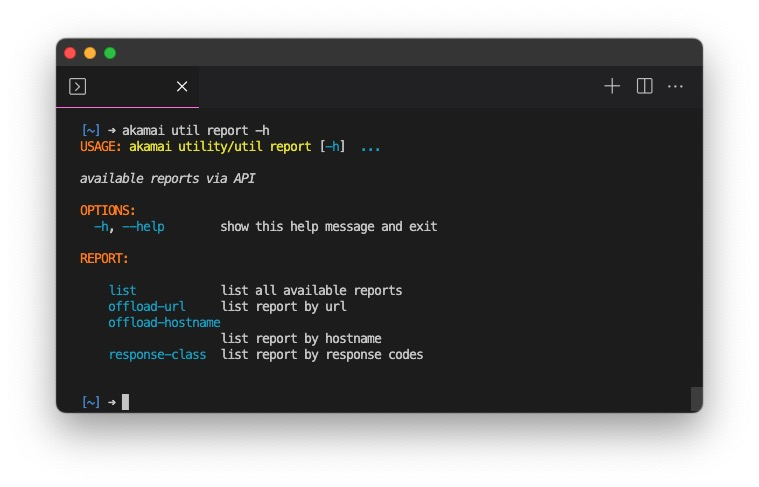
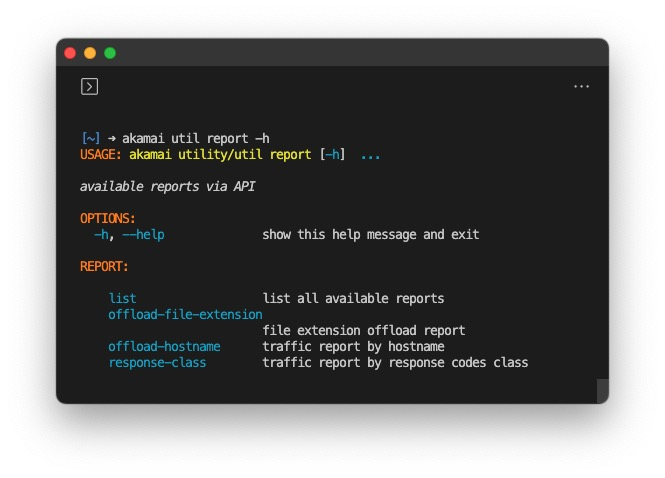
bugfix, refactor: report

diff --git a/bin/command/report.py b/bin/command/report.py
@@ -22,8 +22,8 @@ from tabulate import tabulate
 from utils import files
 
 
-def all_reports(args, logger):
-    rpt = Reporting(account_switch_key=args.account_switch_key, logger=logger)
+def all_reports(args, account_folder, logger):
+    rpt = Reporting(account_switch_key=args.account_switch_key, section=args.section, edgerc=args.edgerc, logger=logger)
     data = rpt.list_report()
     df = pd.json_normalize(data)
 
@@ -40,30 +40,47 @@ def all_reports(args, logger):
             df = df.query(f"businessObjectName == '{args.type}'").copy()
             if args.namecontains:
                 df = df[df['name'].str.contains(args.namecontains)].copy()
-            df = df.fillna('')
-            df = df.sort_values(by='name')
-            df = df.reset_index(drop=True)
-            limit = df.limit.unique()
-            maxLimit = df.maxLimit.unique()
-            console_columns = ['name', 'dataRetentionDays', 'limit', 'maxLimit', 'timeBased', 'endpoint', 'version']
-            if limit == maxLimit and limit == ['']:
-                console_columns.remove('limit')
-                console_columns.remove('maxLimit')
-            print()
-            print(tabulate(df[console_columns], headers=console_columns, tablefmt='github', showindex='false'))
-            print()
+        if args.namecontains:
+            df = df[df['name'].str.contains(args.namecontains)].copy()
 
+        df = df.fillna('')
+        df = df.sort_values(by='name')
+        df = df.reset_index(drop=True)
+        limit = df.limit.unique().tolist()
+        maxLimit = df.maxLimit.unique().tolist()
+        console_columns = ['name', 'dataRetentionDays', 'limit', 'maxLimit', 'timeBased', 'endpoint', 'version']
+        if args.type is None:
+            console_columns.append('businessObjectName')
+        if limit == maxLimit and limit == ['']:
+            console_columns.remove('limit')
+            console_columns.remove('maxLimit')
+        print()
+        integer_columns = ['limit', 'maxLimit']
+        for col in integer_columns:
+            df[col] = df[col].replace('', '0')
+            df[col] = df[col].astype('int64')
+            df[col] = df[col].astype('str')
+            df[col] = df[col].replace('0', '')
+
+        print(tabulate(df[console_columns], headers=console_columns, tablefmt='github'))
+        print()
         sheet = {}
-        sheet['report'] = df
-        filepath = 'output/reports_type.xlsx'
+        all_columns = df.columns.tolist()
+        all_columns.remove('description')
+        all_columns.append('description')
+        sheet['report'] = df[all_columns]
+        filepath = f'{account_folder}/reports_type.xlsx'
         files.write_xlsx(filepath, sheet, freeze_column=1) if not df.empty else None
-        subprocess.check_call(['open', '-a', 'Microsoft Excel', filepath]) if platform.system() == 'Darwin' else None
+        if args.type is None:
+            files.open_excel_application(filepath, True, df)
+        else:
+            files.open_excel_application(filepath, False, df)
 
 
-def offload_by_hostname(args, logger):
-
-    rpt = Reporting(account_switch_key=args.account_switch_key, logger=logger)
-    papi = Papi(account_switch_key=args.account_switch_key, logger=logger)
+def offload_by_hostname(args, account_folder, logger):
+    account_switch_key, section, edgerc = args.account_switch_key, args.section, args.edgerc
+    rpt = Reporting(account_switch_key=account_switch_key, section=section, edgerc=edgerc, logger=logger)
+    papi = Papi(account_switch_key=account_switch_key, section=section, edgerc=edgerc, logger=logger)
     start, end = reporting.get_start_end(args.interval, int(args.last), logger=logger)
     data = rpt.hits_by_hostname(start, end)
 
@@ -79,20 +96,22 @@ def offload_by_hostname(args, logger):
     stat_df = stat_df.sort_values(by='edgeHits', ascending=False)
 
     sheets = {}
+    df['edgeHits'] = df['edgeHits'].apply(lambda x: f'{x:,}')
+    stat_df['edgeHits'] = stat_df['edgeHits'].apply(lambda x: f'{x:,}')
     sheets['hostname_hit'] = df
     sheets['hit_by_property'] = stat_df
     top_five = stat_df.head(5)
     logger.warning('Top 5 hits, for a full list please check excel file')
     print(tabulate(top_five, headers=['hostname', 'edgeHits'], tablefmt='simple', showindex='false'))
     print()
-    filepath = 'output/reporting_offload_by_host.xlsx'
+    filepath = f'{account_folder}/reporting_offload_by_host.xlsx'
     files.write_xlsx(filepath, sheets)
-    subprocess.check_call(['open', '-a', 'Microsoft Excel', filepath]) if platform.system() == 'Darwin' else None
+    files.open_excel_application(filepath, True, df)
 
 
 def offload_by_url(args, logger):
-
-    rpt = Reporting(account_switch_key=args.account_switch_key, logger=logger)
+    account_switch_key, section, edgerc = args.account_switch_key, args.section, args.edgerc
+    rpt = Reporting(account_switch_key=account_switch_key, section=section, edgerc=edgerc, logger=logger)
     start, end = reporting.get_start_end(args.interval, int(args.last), logger=logger)
     cpcode_list = args.cpcode
     logger.info(f'Report CpCodes are {" ".join(cpcode_list)}')
@@ -134,23 +153,19 @@ def offload_by_url(args, logger):
     console.print(table)
 
 
-def traffic_by_response_class(args, logger):
-    rpt = Reporting(args.output, account_switch_key=args.account_switch_key, logger=logger)
-    iam = IdentityAccessManagement(args.account_switch_key, logger=logger)
-    account = iam.search_account_name(value=args.account_switch_key)[0]
-    account = account.replace(' ', '_')
-    print()
-    logger.warning(f'Found account {account}')
-    account = re.sub(r'[.,]|(_Direct_Customer|_Indirect_Customer)|_', '', account)
-    account_folder = f'output/reports/{account}'
-    Path(account_folder).mkdir(parents=True, exist_ok=True)
-
+def traffic_by_response_class(args, account_folder, logger):
+    account_switch_key, section, edgerc = args.account_switch_key, args.section, args.edgerc
+    rpt = Reporting(account_switch_key=account_switch_key, section=section, edgerc=edgerc, logger=logger)
     if args.file and args.cpcode:
         sys.exit(logger.error('Please use either --file or --cpcode, not both'))
 
     start, end = reporting.get_start_end(args.interval, int(args.last), logger=logger)
     # use parallel_apply
     concurrency = int(args.concurrency)
+    if concurrency > 5:
+        logger.critical('This API has limit of 25 request per minute')
+        logger.critical(f'Reduce concurrenct from {concurrency} to 5')
+        concurrency = 5
     pandarallel.initialize(progress_bar=True, nb_workers=concurrency, verbose=0)
 
     if args.cpcode:

diff --git a/bin/command/cli.py b/bin/command/cli.py
@@ -84,19 +84,18 @@ report = [{'name': 'list',
            'optional_arguments': [{'name': 'type', 'help': 'Options: account_id, contractId, contracts, cpcode, edns, fpdomain, reportPackId',
                                    'choices': ['account_id', 'contractId', 'contracts', 'cpcode', 'edns', 'fpdomain', 'reportPackId']},
                                   {'name': 'namecontains', 'help': 'report name contains'}]},
-          {'name': 'offload-url', 'help': 'list report by url',
+          {'name': 'offload-file-extension', 'help': 'file extension offload report',
            'required_arguments': [{'name': 'last', 'help': 'last X interval', 'default': 7},
                                   {'name': 'interval', 'help': 'Options: MONTH, WEEK, DAY, HOUR, FIVE_MINUTES',
                                    'choices': ['MONTH', 'WEEK', 'DAY', 'HOUR', 'FIVE_MINUTES'],
                                    'default': 'HOUR'}],
            'optional_arguments': [{'name': 'cpcode', 'help': '1 or more reporting cpcodes ', 'nargs': '+'}]},
-          {'name': 'offload-hostname', 'help': 'list report by hostname',
+          {'name': 'offload-hostname', 'help': 'traffic report by hostname',
            'required_arguments': [{'name': 'last', 'help': 'last X interval', 'default': 7},
                                   {'name': 'interval', 'help': 'Options: MONTH, WEEK, DAY, HOUR, FIVE_MINUTES',
                                    'choices': ['MONTH', 'WEEK', 'DAY', 'HOUR', 'FIVE_MINUTES'],
-                                   'default': 'HOUR'}],
-           'optional_arguments': [{'name': 'cpcode', 'help': '1 or more reporting cpcodes ', 'nargs': '+'}]},
-          {'name': 'response-class', 'help': 'list report by response codes',
+                                   'default': 'HOUR'}]},
+          {'name': 'response-class', 'help': 'traffic report by response codes class',
            'required_arguments': [{'name': 'last', 'help': 'last X interval', 'default': 7},
                                   {'name': 'interval', 'help': 'Options: MONTH, WEEK, DAY, HOUR, FIVE_MINUTES',
                                    'choices': ['MONTH', 'WEEK', 'DAY', 'HOUR', 'FIVE_MINUTES'],

diff --git a/bin/akamai-utility.py b/bin/akamai-utility.py
@@ -86,13 +86,13 @@ if __name__ == '__main__':
         account_folder = f'output/{account}/report'
         Path(account_folder).mkdir(parents=True, exist_ok=True)
         if args.subcommand == 'list':
-            report.all_reports(args, logger)
-        elif args.subcommand == 'offload-url':
+            report.all_reports(args, account_folder, logger)
+        elif args.subcommand == 'offload-file-extension':
             report.offload_by_url(args, logger)
         elif args.subcommand == 'offload-hostname':
-            report.offload_by_hostname(args, logger)
+            report.offload_by_hostname(args, account_folder, logger)
         elif args.subcommand == 'response-class':
-            report.traffic_by_response_class(args, logger)
+            report.traffic_by_response_class(args, account_folder, logger)
             # report.traffic_by_response_class_async(args)
 
     if args.command == 'ruleformat':

diff --git a/bin/akamai_api/reporting.py b/bin/akamai_api/reporting.py
@@ -12,9 +12,12 @@ from utils import files
 
 
 class Reporting(AkamaiSession):
-    def __init__(self, output: str | None = None, account_switch_key: str | None = None,
+    def __init__(self, account_switch_key: str | None = None,
+                 section: str | None = None,
+                 edgerc: str | None = None,
+                 output: str | None = None,
                  logger: logging.Logger = None):
-        super().__init__()
+        super().__init__(account_switch_key=account_switch_key, section=section, edgerc=edgerc)
         self.MODULE = f'{self.base_url}/reporting-api/v1'
         self.headers = {'Accept': 'application/json'}
         if output == 'csv':

diff --git a/bin/akamai_api/identity_access.py b/bin/akamai_api/identity_access.py
@@ -75,7 +75,7 @@ class IdentityAccessManagement(AkamaiSession):
                     account_name.append(account['accountName'])
         elif resp.json()['title'] == 'ERROR_NO_SWITCH_CONTEXT':
             sys.exit(self.logger.error('You do not have permission to lookup other accounts'))
-        elif 'WAF deny rule IPBLOCK-BURST' in resp.json()['detail']:
+        elif 'WAF deny rule IPBLOCK-' in resp.json()['detail']:
             self.logger.error(resp.json()['detail'])
             lg.countdown(540, msg='Oopsie! You just hit rate limit.', logger=self.logger)
             sys.exit()

diff --git a/README.md b/README.md
@@ -186,6 +186,62 @@ akamai util certificate --authority geotrust --enrollement-id 19569 18843
 
 ![certificate](./bin/doc/help/certificate.jpg)
 
+# GTM
+
+Provides a normalized report of the GTM domain and its properties.
+
+![gtm](./bin/doc/help/gtm.jpg)
+
+## GTM Remove
+
+Batch delete GTM properties based on a given CSV input
+
+# Report
+
+![report](./bin/doc/help/report.jpg)
+
+`report` command features four subcommands:
+
+- [list](#report-list)
+- [offload-url](#report-offload-url)
+- [offload-hostname](#report-offload-hostname)
+- [response-class](#report-response-class)
+
+## Report List
+
+Give you a list of available reports are its metadata such as data retention days, API endpoint, available metrics and filters
+
+```bash
+akamai util report list --type cpcode
+akamai util report list --namecontains error
+```
+
+## Report Offload-file-extension
+
+Provide edge_hits, origin_hits and the offload percentage for each file extension of given cpCodes
+
+```bash
+akamai util report offload-file-extension --cpcode 1051280 1051283 1051285 --last 90 --interval DAY
+```
+
+## Report Offload-hostname
+
+Provide edgeHits on the hostname and corresponding delivery configuration
+
+```bash
+akamai util report offload-hostname
+akamai util report offload-hostname --last 2 --interval WEEK
+```
+
+## Report Response-class
+
+Provide the percentage of edgeHits and originHits by response code class for the requested cpCode along with its cpCode name.
+
+```bash
+akamai util report response-class --last 2 --interval WEEK --concurrency 5
+akamai util report response-class --last 7 --interval HOUR --cpcode 1051280 1051283 1051285
+```
+
 # Ruleformat
 
 The `ruleformat` command provides JSON format from delivery configurations that match a given product ID and rule format version.
